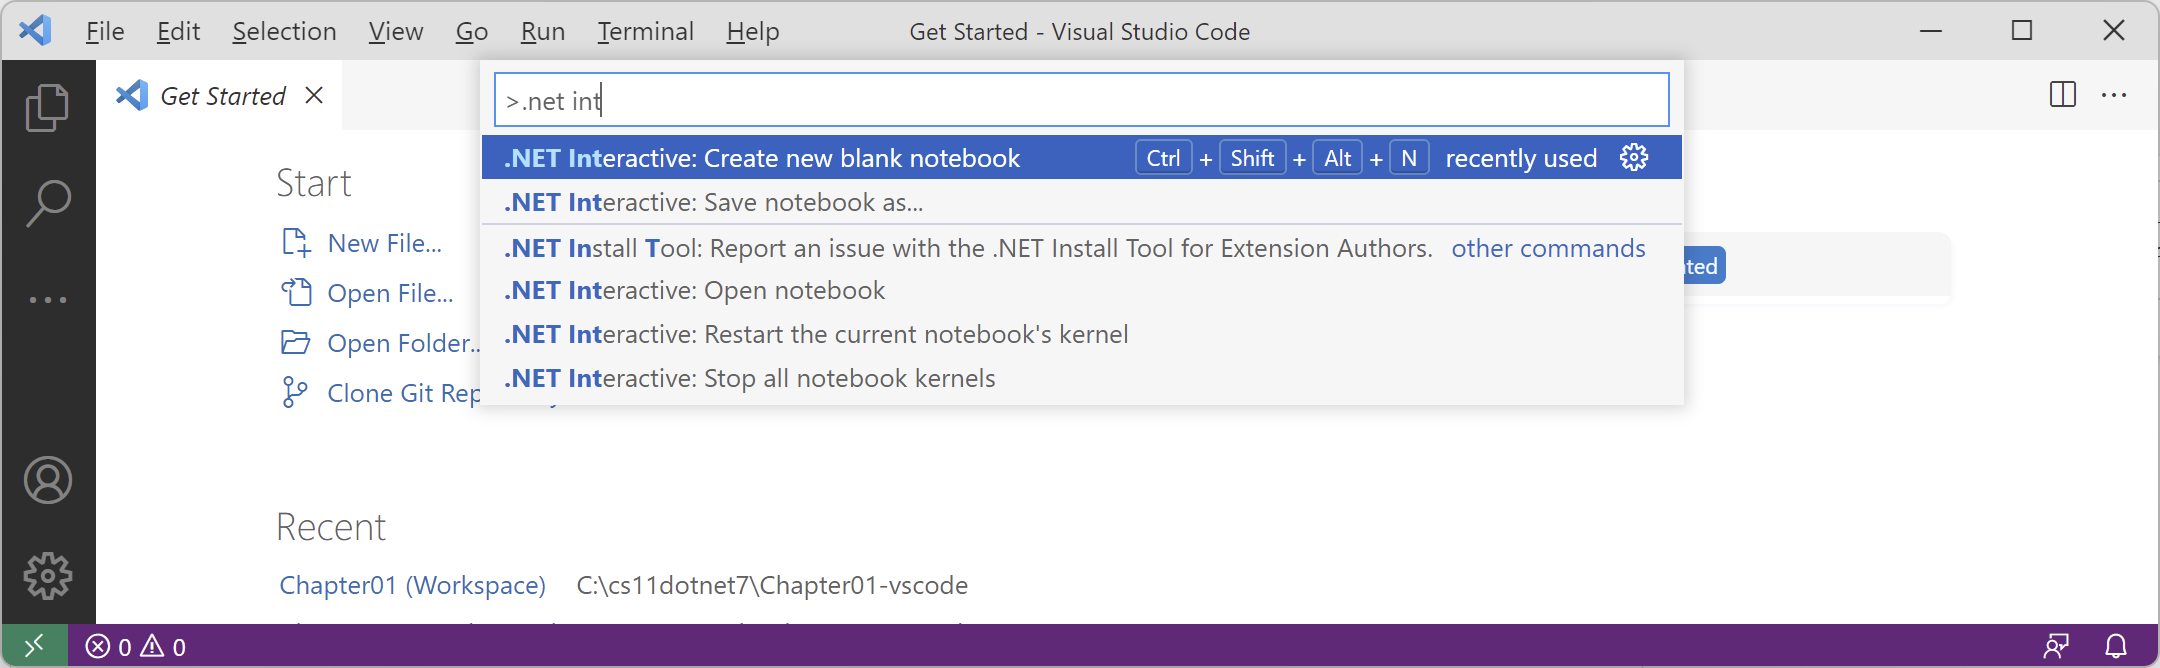
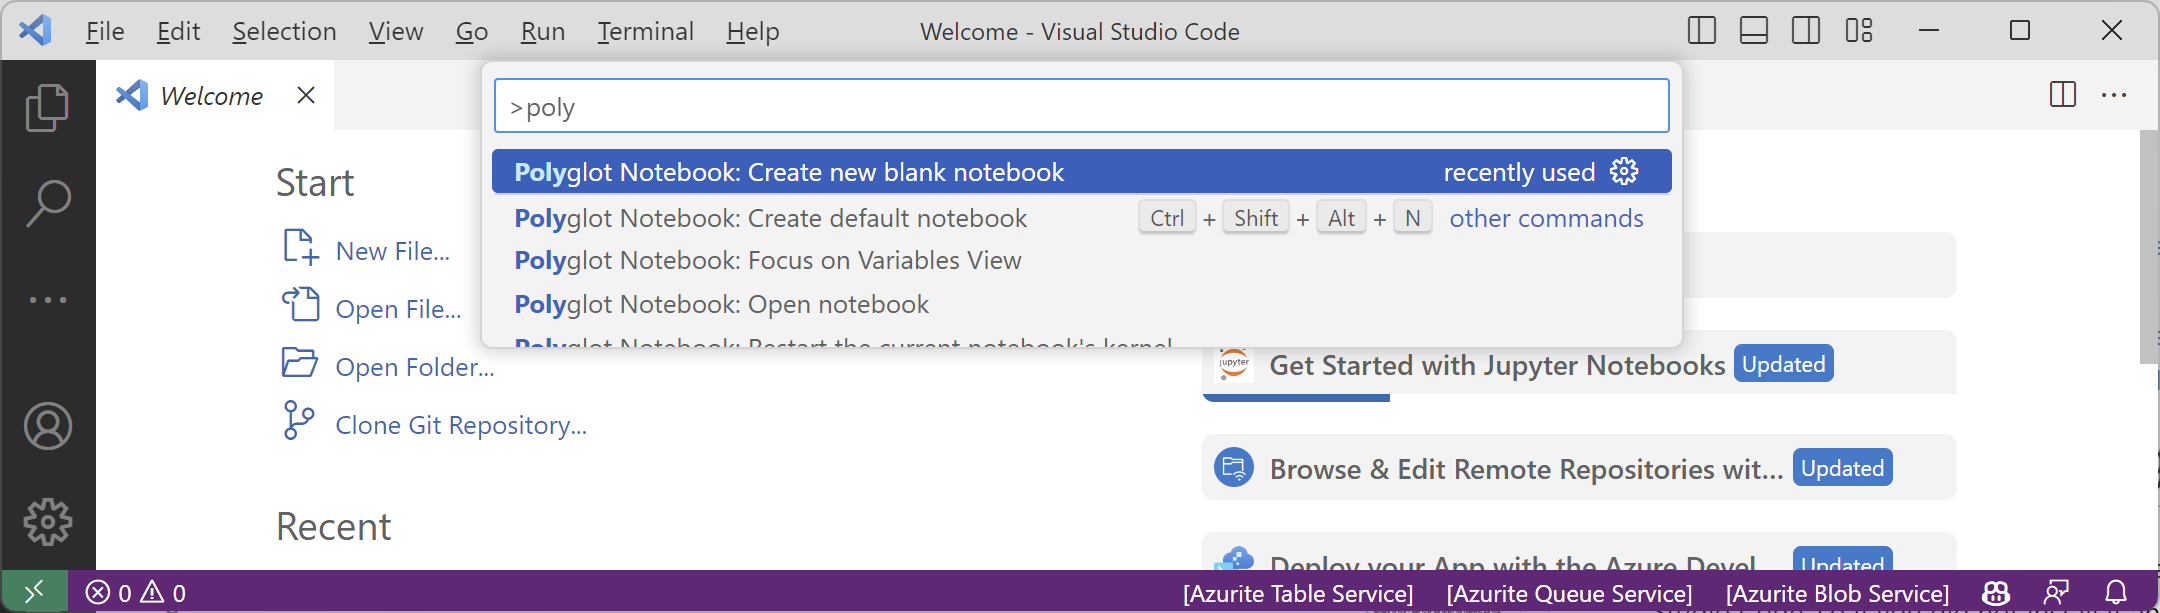
Update polyglot notebook page

diff --git a/docs/ch01/polyglot-notebooks.md b/docs/ch01/polyglot-notebooks.md
@@ -3,7 +3,9 @@
 - [Exploring code using Polyglot Notebooks](#exploring-code-using-polyglot-notebooks)
 - [Creating a notebook](#creating-a-notebook)
 - [Writing and running code in a notebook](#writing-and-running-code-in-a-notebook)
-- [Chapter 1 - Hello, C#! Welcome, .NET!](#chapter-1---hello-c-welcome-net)
+- [Saving a notebook](#saving-a-notebook)
+- [Adding Markdown and special commands to a notebook](#adding-markdown-and-special-commands-to-a-notebook)
+- [Executing code in multiple cells](#executing-code-in-multiple-cells)
 
 
 # Exploring code using Polyglot Notebooks
@@ -16,77 +18,111 @@ https://marketplace.visualstudio.com/items?itemName=MLNET.notebook
 # Creating a notebook
 
 First, we need to create a notebook:
-1. In Visual Studio Code, navigate to File | Close Workspace.
-2. Navigate to View | Command Palette.
+1. In Visual Studio Code, navigate to **File** | **Close Workspace**.
+2. Navigate to **View** | **Command Palette**.
 3. Type `poly`, and then select **Polyglot Notebook: Create new blank notebook**, as shown in *Figure 1.16*:
 
-![Figure 1.16: Creating a new blank polyglot notebook](assets/B19586_01_16.png)
+![Creating a new blank polyglot notebook](assets/B19586_01_16.png)
 
 *Figure 1.16: Creating a new blank polyglot notebook*
 
-4. When prompted to select the file extension, choose Create as '.dib'.
+1. When prompted to select the file extension, choose **Create as** `.dib`.
 
 > `.dib` is an experimental file format defined by Microsoft to avoid confusion and compatibility issues with the `.ipynb` format used by Python interactive notebooks. The file extension was historically only for Jupyter notebooks that can contain an interactive (I) mix of data, Python code (PY), and output in a notebook file (NB). With Polyglot Notebooks, the concept has expanded to allow a mix of C#, F#, SQL, HTML, JavaScript, Markdown, and other languages. `.dib` is polyglot, meaning it supports mixed languages. Conversion between the `.dib` and `.ipynb` file formats is supported.
 
-5. Select C# for the default language for code cells in the notebook.
+5. For the **Default Language** for code cells in the notebook, select **C#**.
 
-> If a newer version of the .NET Interactive engine is available, you might have to wait for it to uninstall the older version and install the newer one. Navigate to View | Output and select Polyglot Notebooks : diagnostics in the drop-down list. Please be patient. It can take a few minutes for the notebook to appear because it must start up a hosting environment for .NET. If nothing happens after a few minutes, then close Visual Studio Code and restart it.
+> If a newer version of the .NET Interactive engine is available, you might have to wait for it to uninstall the older version and install the newer one. 
 
-6. Once the Polyglot Notebooks extension is downloaded and installed, the OUTPUT window diagnostics will show that a kernel process has started (your process numbers will be different from the output below), as shown in the following output:
+6. Navigate to **View** | **Output** and select **Polyglot Notebook : diagnostics** in the drop-down list. Please be patient. It can take a few minutes for the notebook to appear because it must start up a hosting environment for .NET. If nothing happens after a few minutes, then close Visual Studio Code and restart it.
+
+7. Once the Polyglot Notebooks extension is downloaded and installed, the OUTPUT window diagnostics will show that a kernel process has started (your process numbers will be different from the output below), as shown in the following output:
 ```
 Extension started for VS Code Stable.
-Started process 16088: dotnet tool run dotnet-interactive -- notebook-parser
-Starting kernel for 'untitled:Untitled-1.dib?dotnet-interactive' using: dotnet tool run dotnet-interactive -- [vscode] stdio --working-dir C:\Users\markj\Downloads
-Kernel for 'untitled:Untitled-1.dib?dotnet-interactive' started (16392).
+Started process 2344: dotnet tool run dotnet-interactive -- notebook-parser
+Starting kernel for 'untitled:Untitled-1.dib?polyglot-notebook' using: dotnet tool run dotnet-interactive -- [vscode] stdio --working-dir C:\Users\markj\Downloads
+Kernel for 'untitled:Untitled-1.dib?polyglot-notebook' started (26348).
 ```
 
 # Writing and running code in a notebook
 
 Next, we can write code in the notebook cells:
 
-1. The first cell should already be set to **csharp - C# Script**, but if it is set to anything else, then click the language selector in the bottom-right corner of the code cell and then select **csharp - C# Script** as the language mode for that cell, and note your other choices of language for a code cell, as shown in *Figure 1.17*:
+1. The first cell should already be set to **csharp - C# Script**, but if it is set to anything else, then click the cell kernel selector in the bottom-right corner of the code cell and then select **csharp - C# Script** as the cell kernel, and note your other choices of language for a code cell, as shown in *Figure 1.17*:
 
-![Figure 1.17: Changing the language for a code cell in a polyglot notebook](assets/B19586_01_17.png)
+![Changing the language for a code cell in a polyglot notebook](assets/B19586_01_17.png)
 
 *Figure 1.17: Changing the language for a code cell in a polyglot notebook*
 
-Inside the csharp - C# Script code cell, enter a statement to output a message to the console, and note that you do not need to end the statement with a semicolon, as you normally would in a full application, as shown in the following code:
+1. Inside the **csharp - C# Script** code cell, enter a statement to output a message to the console, and note that you do not need to end the statement with a semicolon, as you normally would in a full application, as shown in the following code:
+```cs
 Console.WriteLine("Hello, .NET notebook!")
-Click the Execute Cell button to the left of the code cell and note the output that appears under the code cell, as shown in Figure 1.18:
- 
-Figure 1.18: Executing a cell in a polyglot notebook and seeing the output below
-Saving a notebook
+```
+
+1. Click the **Execute Cell** button to the left of the code cell and note the output that appears under the code cell, as shown in *Figure 1.18*:
+
+![Executing a cell in a polyglot notebook and seeing the output below](assets/B19586_01_18.png)
+
+*Figure 1.18: Executing a cell in a polyglot notebook and seeing the output below*
+
+# Saving a notebook
+
 Like any other file, we should save the notebook before continuing further:
-1.	Navigate to File | Save As….
-Change to the Chapter01-vscode folder and save the notebook as Chapter01.dib.
-Close the Chapter01.dib editor tab.
-Adding Markdown and special commands to a notebook
+
+1. Navigate to **File** | **Save As…**.
+2. Change to the `Chapter01-vscode` folder and save the notebook as `Chapter01.dib`.
+3. Close the **Chapter01.dib** editor tab.
+
+# Adding Markdown and special commands to a notebook
+
 We can mix and match cells containing Markdown and code with special commands:
-1.	Navigate to File | Open File… and select the Chapter01.dib file.
-Hover your mouse above the code block and click + Markdown to add a Markdown cell.
-Type a heading level 1, as shown in the following Markdown:
+
+1.	Navigate to **File** | **Open File…** and select the `Chapter01.dib` file.
+2. Hover your mouse above the code block and click **+ Markdown** to add a Markdown cell.
+3. Type a heading level 1 and a normal paragraph with some styles applied to some words, as shown in the following Markdown:
+```md
 # Chapter 1 - Hello, C#! Welcome, .NET!
+
 Mixing *rich* **text** and code is cool!
-Click the tick in the top-right corner of the cell to stop editing the cell and view the processed Markdown.
-If your cells are in the wrong order, then you can drag and drop to rearrange them.
-Hover between the Markdown cell and the code cell and click + Code.
-Type a special command to output version information about the .NET Interactive engine used by Polyglot Notebooks, as shown in the following code:
+```
+
+4. Click the tick in the top-right corner of the cell to stop editing the cell and view the processed Markdown.
+
+> If your cells are in the wrong order, then you can drag and drop to rearrange them.
+
+5. Hover between the Markdown cell and the code cell and click **+ Code**.
+6. Type a special command to output version information about the .NET Interactive engine used by Polyglot Notebooks, as shown in the following code:
+```
 #!about
-Click the Execute Cell button and note the output, as shown in Figure 1.19:
+```
+7. Click the **Execute Cell** button and note the output, as shown in *Figure 1.19*:
  
-Figure 1.19: Mixing Markdown, code, and special commands in a polyglot notebook
-Executing code in multiple cells
+![Mixing Markdown, code, and special commands in a polyglot notebook](assets/B19586_01_19.png)
+
+*Figure 1.19: Mixing Markdown, code, and special commands in a polyglot notebook*
+
+# Executing code in multiple cells
+
 When you have multiple code cells in a notebook, you must execute the preceding code cells before their context becomes available in subsequent code cells:
-1.	At the bottom of the notebook, add a new code cell, and then type a statement to declare a variable and assign an integer value, as shown in the following code:
+
+1. At the bottom of the notebook, add a new code cell, and then type a statement to declare a variable and assign an integer value, as shown in the following code:
+```cs
 int number = 8;
-At the bottom of the notebook, add a new code cell, and then type a statement to output the number variable, as shown in the following code:
+```
+
+2. At the bottom of the notebook, add a new code cell, and then type a statement to output the number variable, as shown in the following code:
+```cs
 Console.WriteLine(number);
-Note the second code cell does not know about the number variable because it was defined and assigned in another code cell, aka context, as shown in Figure 1.20:
- 
-Figure 1.20: The number variable does not exist in the current cell or context
-In the first cell, click the Execute Cell button to declare and assign a value to the variable.
-In the second cell, click the Execute Cell button to output the number variable, and note that this works. (Alternatively, in the first cell, you can click the Execute Cell and Below button in the mini-toolbar in the top-right corner of that cell.)
-Good Practice: If you have related code split between two or more cells, remember to execute the preceding cells before executing the subsequent cells. At the top of the notebook, there are the following buttons: Clear Outputs and Run All. These are very handy because you can click one and then the other to ensure that all code cells are executed properly.
-Using Polyglot Notebooks for the code in this book
-Throughout the rest of the chapters, I will not give explicit instructions to use notebooks, but the GitHub repository for the book has solution notebooks when appropriate. I expect many readers will want to run my pre-created notebooks for language and library features covered in Chapters 1 to 11 that they want to see in action and learn about without having to write a complete application:
-https://github.com/markjprice/cs12dotnet8/tree/main/notebooks
+```
+
+3. Note the second code cell does not know about the number variable because it was defined and assigned in another code cell, aka context, as shown in *Figure 1.20*:
+
+![The number variable does not exist in the current cell or context](assets/B19586_01_20.png)
+
+*Figure 1.20: The number variable does not exist in the current cell or context*
+
+4. In the first cell, click the **Execute Cell** button to declare and assign a value to the variable.
+5. In the second cell, click the **Execute Cell** button to output the number variable, and note that this works. (Alternatively, in the first cell, you can click the **Execute Cell and Below** button in the mini-toolbar in the top-right corner of that cell.)
+
+> **Good Practice**: If you have related code split between two or more cells, remember to execute the preceding cells before executing the subsequent cells. At the top of the notebook, there are the following buttons: **Clear Outputs** and **Run All**. These are very handy because you can click one and then the other to ensure that all code cells are executed properly.
+
